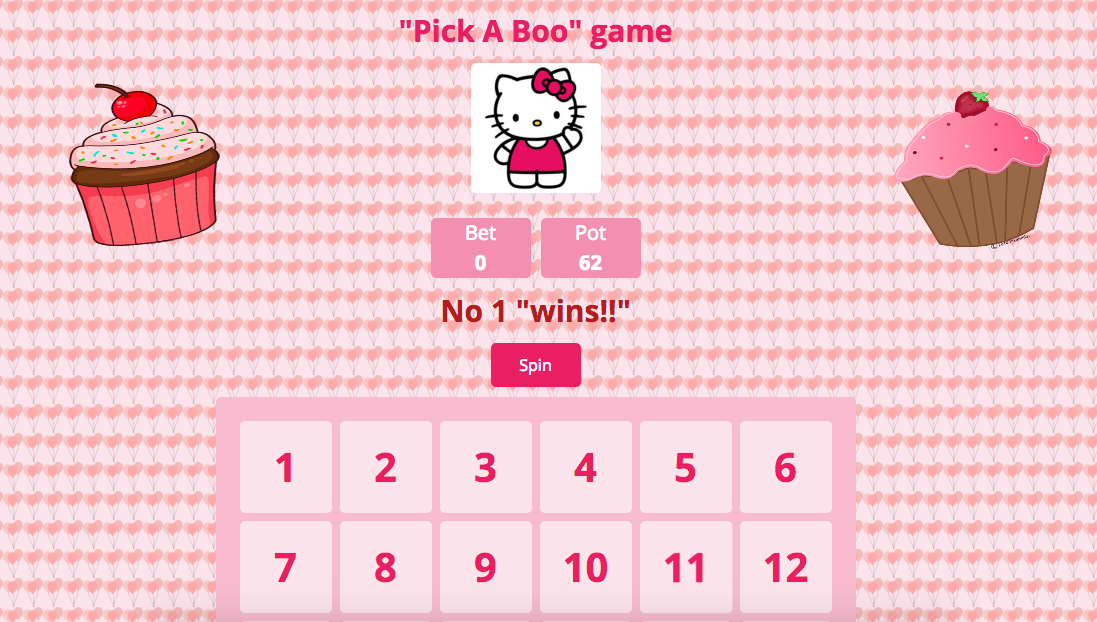
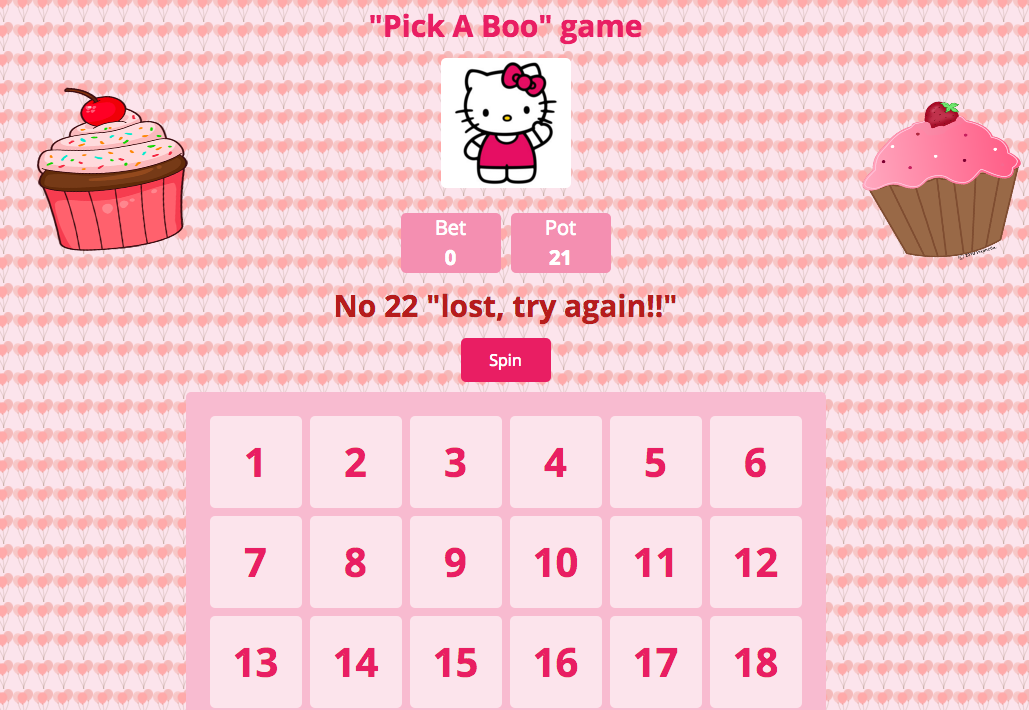
now

diff --git a/js/app.js b/js/app.js
@@ -51,12 +51,12 @@ function spin(){
 
   // Check if the chosen number appears in the chosenSquares
   if (chosenSquares.indexOf(chosenNumber) !== -1) {
-    $('.wheel').text("No " + $('.wheel').text() + "  " + '"wins!!"')
+    $('.wheel').text("No " + $('.wheel').text() + "  " + '"Wins!!"')
 
     changeBets('.pot', 36);
     resetBet('.bet');
   } else {
-    $('.wheel').text("No " + $('.wheel').text() + "  " + '"lost, try again!!"')
+    $('.wheel').text("No " + $('.wheel').text() + "  " + '"Lost, try again!!"')
     resetBet('.bet');
   }
   clearBoard();

diff --git a/README.md b/README.md
@@ -7,21 +7,26 @@
 The game is inspired from the Roulette game.
 
 ##The game: 
-This is a one player game created for children. The player selects several numbers from the range of numbers 1-36 printed on the board.
-The games starts with Pot 50. Clicking on the "Spin" button makes the wheel spin and a random number wins.   
-The Pot counter decreases at the beginning of every new game depending on how many numbers the player has selected (ie. if player selected 5 numbers, Pot decreases by 5).
-The winning number is displayed with a short message depending if the player has won or lost. 
-When the player wins, the Pot increases by 36. At the end of every game, the Bet count is reset to 0. 
+1.One player game created for children. The player selects several numbers from 
+  the range of numbers 1-36 printed on the board.
+2.Games starts with Pot of 50. Clicking on "Spin" button makes wheel spin and a 
+  random number is selected as winning number.   
+3.Pot counter decreases at beginning of every new game depending on how many
+  numbers the player has selected (ie. if player selected 5 numbers, Pot decreases by 5).
+  The winning number is displayed with a short message depending if the player has won or lost. 
+4. When player wins, the Pot increases by 36. At the end of game, the Bet count  
+   is reset to 0. 
 
-##Have a play
 ![](./images/kitt.png)
 
 ##Tools:
+1. HTML 5, CSS and jQuery to create this game.
+2.'Open Sans' Font Google font was used to style the game. 
+3. Several Animations (swing, bounce, pulse, flip) were created using the Animate.css 
+   stylesheet.
+
 ![](./images/hello.png)
 
-We used HTML 5, CSS and jQuery to create this game.
-'Open Sans' Font Google font was used to style the game. 
-Several Animations (swing, bounce, pulse, flip) were created using the Animate.css stylesheet.
 
 ##Challenges:
-It was a challenge to create the SetTimeout, clearBoard and resetBet functions with JQuery. Also, for the game styling, I wanted to created two vertical strips of pattern to sit on the left and right side using a background but the code did not work. The alternative was to use a background with repeat pattern. s
+It was a challenge to style the game using HTML and CSS in general. I wanted to create two vertical strips of pattern to sit on the left and right side. After various attemps using a background with pattern repeat, I failed to make the code work. In the end, I opted for a background applied to the entire Body.Additionnaly, creating functions such a SetTimeout, clearBoard and resetBet with JQuery was not an easy task.  
